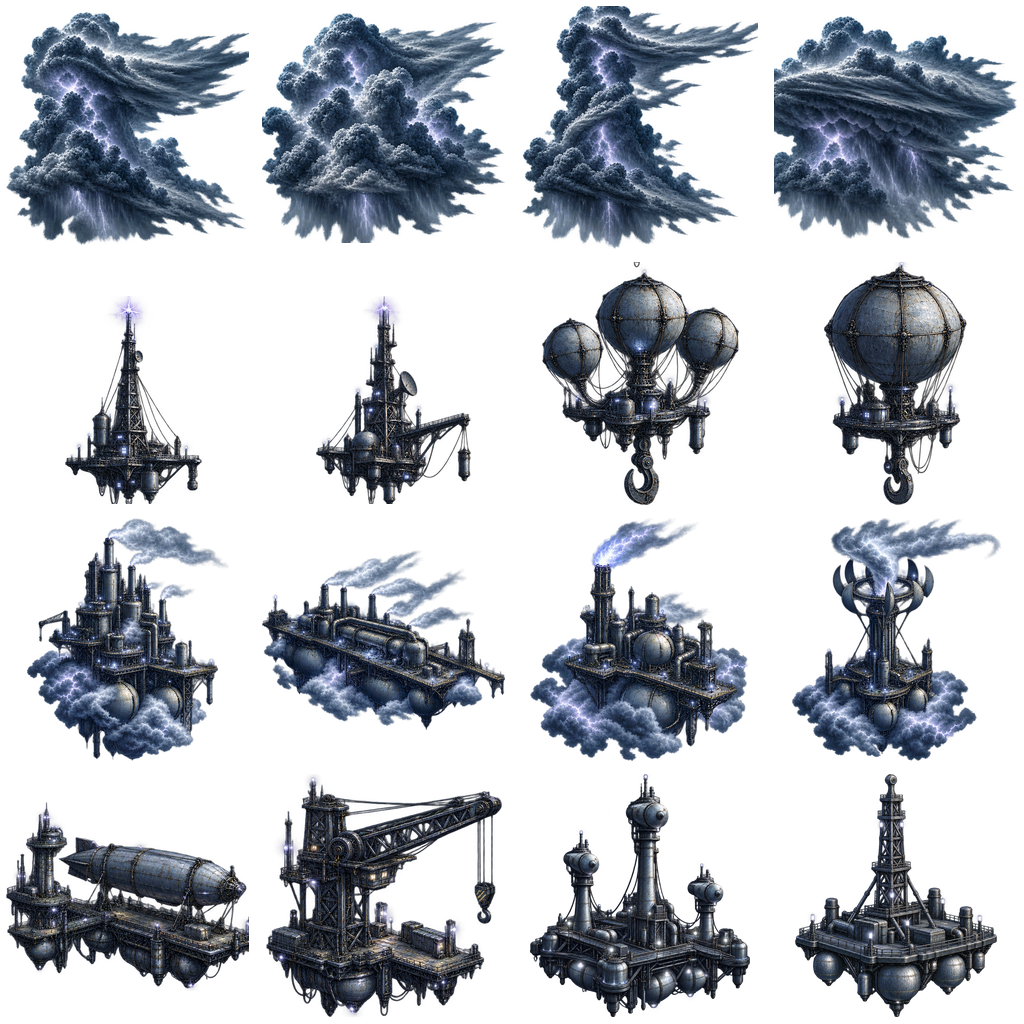
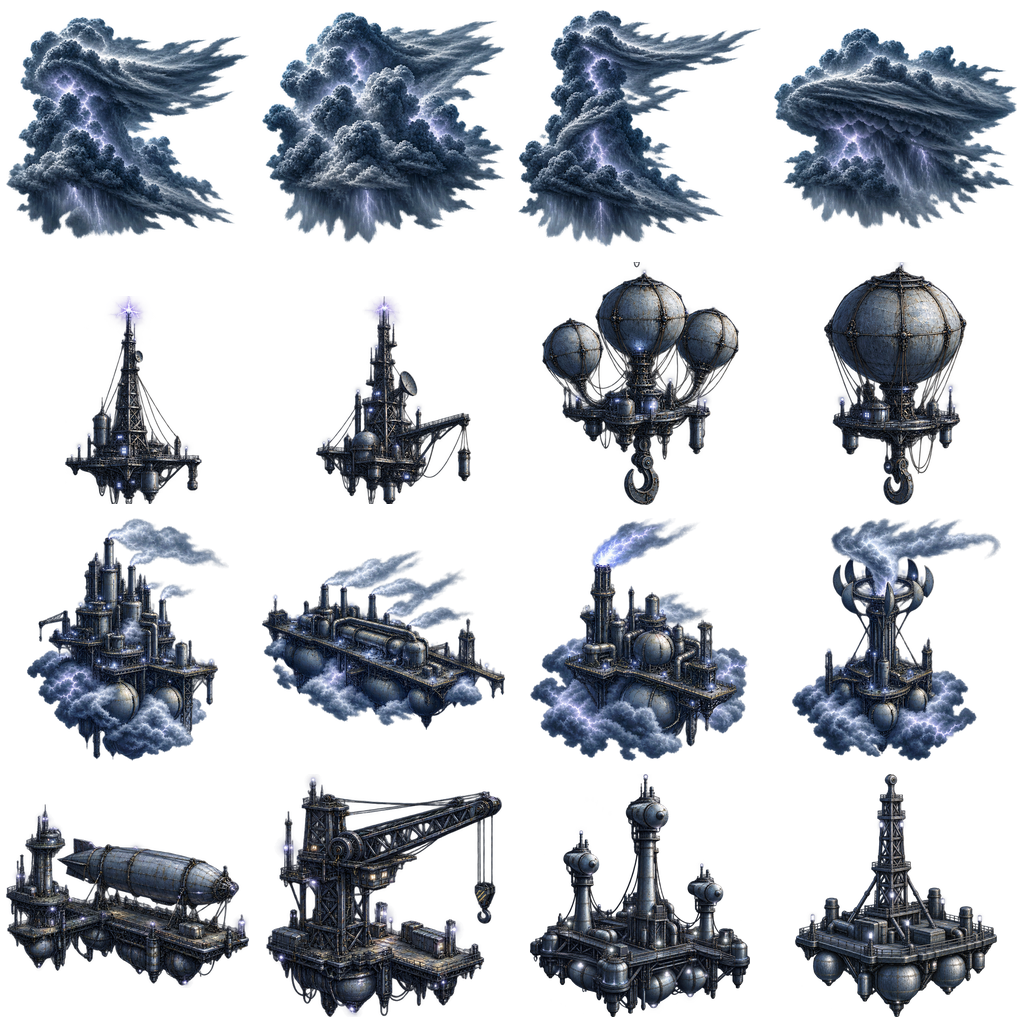
Storm thunderheads: cut each painted landmark whole by connected component (the 2x2 grid slice cut flat edges); StormCloudCutTest detects border art and flat cuts

Changed region(s): [[0.0, 0.0, 1.0, 0.25], [0.0, 0.7812, 0.25, 0.9688]]

diff --git a/Pause/Assets/Editor/Tests/StormCloudCutTest.cs b/Pause/Assets/Editor/Tests/StormCloudCutTest.cs
@@ -1,0 +1,102 @@
+using System.Collections.Generic;
+using System.IO;
+using UnityEngine;
+
+// STORM CLOUDS ARE NEVER CUT. Storm's thunderheads (landmarks anvil_tower_*), their lightning layers (thunder) and the weather
+// clouds are painted pieces cut from 256 px atlas cells. Two defects drew a thunderhead with a flat, straight edge in game:
+//   * art that runs into the cell border (the sprite rect then slices it), and
+//   * art cut flat BEFORE it reached the cell: build_lm_haz.py once sliced Codex's 2x2 painted sheet on the grid line and a cloud
+//     whose wisps crossed the line came out with a dead-straight left/right edge.
+// So: (1) no cell of the Storm landmark / thunder / lightning / weather / sites / rotors atlases has an opaque pixel on its border,
+// and (2) the outermost row/column of a cloud or landmark drawing never holds a long straight opaque run (a soft edge is ragged).
+//
+//   Unity -batchmode -quit -projectPath <abs>/Pause -executeMethod StormCloudCutTest.Run
+public static class StormCloudCutTest
+{
+    static int fails;
+    static void Check(string what, bool ok)
+    {
+        Debug.Log((ok ? "[SCC] PASS  " : "[SCC] FAIL  ") + what);
+        if (!ok) fails++;
+    }
+
+    public static void Run() { TestHarness.Exit(Execute()); }
+
+    const string Dir = "Assets/Art/Backgrounds/Resources/Worlds/Storm/Backdrop3/";
+    const int Border = 8, FlatRun = 20;
+    static readonly string[] BorderAtlases = { "landmarks", "thunder", "lightning", "weather", "sites", "rotors" };
+    static readonly string[] CutAtlases = { "landmarks", "thunder", "weather" };
+
+    [System.Serializable] class Cell { public string n; public int x, y, w, h; }
+    [System.Serializable] class Sheet { public Cell[] sprites; }
+
+    public static int Execute()
+    {
+        fails = 0;
+        foreach (var a in BorderAtlases) Scan(a, false);
+        foreach (var a in CutAtlases) Scan(a, true);
+        Debug.Log("[SCC] failures: " + fails);
+        return fails;
+    }
+
+    static void Scan(string atlas, bool flat)
+    {
+        string png = Dir + atlas + ".png";
+        if (!File.Exists(png)) { Check("Storm " + atlas + ": atlas exists", false); return; }
+        var tex = new Texture2D(2, 2);
+        tex.LoadImage(File.ReadAllBytes(png));
+        var px = tex.GetPixels32();
+        int W = tex.width;
+        var sheet = JsonUtility.FromJson<Sheet>(File.ReadAllText(Dir + atlas + ".json"));
+        var bad = new List<string>();
+        foreach (var c in sheet.sprites)
+        {
+            if (flat && atlas == "weather" && !(c.n.StartsWith("cloud_") || c.n.StartsWith("pall"))) continue;
+            string s = flat ? FlatEdge(px, W, c) : BorderPixel(px, W, c);
+            if (s != null) bad.Add(c.n + " " + s);
+        }
+        Object.DestroyImmediate(tex);
+        Check("Storm " + atlas + (flat ? ": no cloud / landmark edge is cut flat (" : ": no cell has art on its border (") + (bad.Count == 0 ? "none" : string.Join("; ", bad)) + ")", bad.Count == 0);
+    }
+
+    // y runs down the cell; texture rows run bottom-up
+    static byte A(Color32[] px, int W, Cell c, int x, int y) { return px[(c.y + c.h - 1 - y) * W + c.x + x].a; }
+
+    static string BorderPixel(Color32[] px, int W, Cell c)
+    {
+        for (int i = 0; i < c.w; i++)
+            if (A(px, W, c, i, 0) > Border) return "top x" + i;
+            else if (A(px, W, c, i, c.h - 1) > Border) return "bottom x" + i;
+        for (int j = 0; j < c.h; j++)
+            if (A(px, W, c, 0, j) > Border) return "left y" + j;
+            else if (A(px, W, c, c.w - 1, j) > Border) return "right y" + j;
+        return null;
+    }
+
+    static string FlatEdge(Color32[] px, int W, Cell c)
+    {
+        int x0 = int.MaxValue, x1 = -1, y0 = int.MaxValue, y1 = -1;
+        for (int y = 0; y < c.h; y++)
+            for (int x = 0; x < c.w; x++)
+                if (A(px, W, c, x, y) > Border) { if (x < x0) x0 = x; if (x > x1) x1 = x; if (y < y0) y0 = y; if (y > y1) y1 = y; }
+        if (x1 < 0) return null;
+        int l = Run(px, W, c, x0, 0, 0, 1), r = Run(px, W, c, x1, 0, 0, 1), t = Run(px, W, c, 0, y0, 1, 0), b = Run(px, W, c, 0, y1, 1, 0);
+        if (l > FlatRun) return "left edge flat run " + l;
+        if (r > FlatRun) return "right edge flat run " + r;
+        if (t > FlatRun) return "top edge flat run " + t;
+        if (b > FlatRun) return "bottom edge flat run " + b;
+        return null;
+    }
+
+    // longest unbroken run of mostly-opaque pixels along the column (dx 0, dy 1) or row (dx 1, dy 0) through (x, y)
+    static int Run(Color32[] px, int W, Cell c, int x, int y, int dx, int dy)
+    {
+        int best = 0, cur = 0, n = dy == 1 ? c.h : c.w;
+        for (int i = 0; i < n; i++)
+        {
+            cur = A(px, W, c, x + dx * i, y + dy * i) > 128 ? cur + 1 : 0;
+            if (cur > best) best = cur;
+        }
+        return best;
+    }
+}

diff --git a/Pause/Assets/Art/Worlds/Storm/backdrop_v4~/restyle_landmarks/src~/build_lm_haz.py b/Pause/Assets/Art/Worlds/Storm/backdrop_v4~/restyle_landmarks/src~/build_lm_haz.py
@@ -21,6 +21,20 @@ def cells(a, cols, rows):
     h, w = a.shape[:2]; ch, cw = h // rows, w // cols
     return [a[r * ch:(r + 1) * ch, c * cw:(c + 1) * cw] for r in range(rows) for c in range(cols)]
 
+def cells_cc(a, cols, rows):
+    """Like cells(), but every painted object is cut out WHOLE by its connected component (a cloud whose wisps cross the 2x2 grid line used
+    to be sliced flat there); each object goes to the grid slot holding its centroid. Pixels of neighbouring objects are masked out."""
+    from scipy import ndimage as ndi
+    h, w = a.shape[:2]; al = a[..., 3] > .06
+    lab, n = ndi.label(ndi.binary_dilation(al, iterations=6))
+    sz = ndi.sum(al, lab, range(1, n + 1)); out = [None] * (cols * rows)
+    for i in range(n):
+        if sz[i] < .03 * sz.max(): continue
+        m = lab == i + 1; cy, cx = ndi.center_of_mass(m); k = min(rows - 1, int(cy * rows / h)) * cols + min(cols - 1, int(cx * cols / w))
+        c = a.copy(); c[..., 3] *= m
+        if out[k] is None or sz[i] > out[k][0]: out[k] = (sz[i], c)
+    return [o[1] if o else cells(a, cols, rows)[k] for k, o in enumerate(out)]
+
 def bbox(a, thr=.06):
     ys, xs = np.where(a[..., 3] > thr)
     return ys.min(), ys.max() + 1, xs.min(), xs.max() + 1
@@ -83,7 +97,7 @@ def fill_landmarks():
     for sname, names in maps.items():
         if not (SRC / (sname + ".png")).exists():
             print("missing", sname); continue
-        for n, c in zip(names, [despeckle(x) for x in cells(load(sname), 2, 2)]):
+        for n, c in zip(names, [despeckle(x) for x in (cells_cc if sname in ('lm_anvils', 'lm_docks') else cells)(load(sname), 2, 2)]):   # masts: two structures touch, the grid cut is clean there
             if n == "turbine_raft_00" and (SRC / "tr_raft.png").exists(): c = despeckle(load("tr_raft"))      # bare hubs: the fans are the rotors atlas
             if n == "relay_dish_00" and (SRC / "dish_mast.png").exists(): c = despeckle(load("dish_mast"))   # bare mount: the dish is its own turning sprite
             s = by[n]; box = (s["x"], H - s["y"] - s["h"], s["x"] + s["w"], H - s["y"])

diff --git a/Pause/Assets/Editor/Tests/AllTests.cs b/Pause/Assets/Editor/Tests/AllTests.cs
@@ -342,6 +342,7 @@ public static class AllTests
         ("FrostBackdropTest", FrostBackdropTest.Execute),
         ("BackdropAnchorTest", BackdropAnchorTest.Execute),
         ("BackdropCellBleedTest", BackdropCellBleedTest.Execute),
+        ("StormCloudCutTest", StormCloudCutTest.Execute),
         ("BackdropResolutionTest", BackdropResolutionTest.Execute),
         ("EnemyResolutionTest", EnemyResolutionTest.Execute),
         ("FrameStillsTest", FrameStillsTest.Execute),
